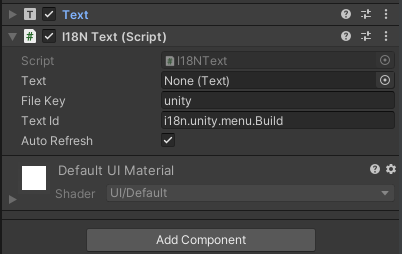
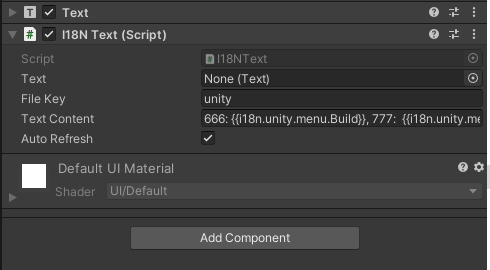
1. 更新 Manual: i18n .

Changed region(s): [[0.0, 0.0, 1.0, 1.0]]

diff --git a/pages/ManualInclude_3_i18n_en.md b/pages/ManualInclude_3_i18n_en.md
@@ -55,6 +55,11 @@ Add I18NText component to Text node
 `I18NManagerShared.Manager.GetValue(id, fileKey, lang);`
 ![image](assets/img/i18n_10.png)  
 
+#### 3.2.4 Internationalize the text content in the code.
+Support script format in the file content: `{{id}}`   
+`I18NManagerShared.Manager.GetContent(content, fileKey, lang);`  
+![image](assets/img/i18n_12.png)  
+
 ### 3.3 Example
 GameDriver/Samples/i18n  
 ![image](assets/img/i18n_4.png)  

diff --git a/pages/ManualInclude_3_i18n_cn.md b/pages/ManualInclude_3_i18n_cn.md
@@ -55,6 +55,11 @@
 `I18NManagerShared.Manager.GetValue(id, fileKey, lang);`  
 ![image](assets/img/i18n_10.png)  
 
+#### 3.2.4 在代码中把文本内容进行国际化。
+在文件内容中支持脚本格式： `{{id}}`  
+`I18NManagerShared.Manager.GetContent(content, fileKey, lang);`  
+![image](assets/img/i18n_12.png)  
+
 ### 3.3 示例
 GameDriver/Samples/i18n  
 ![image](assets/img/i18n_4.png)  
